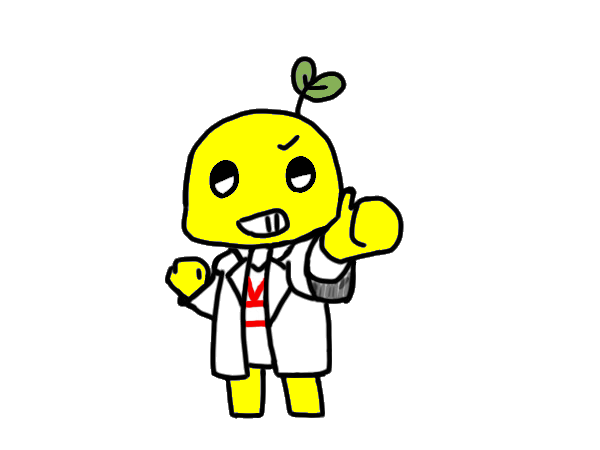
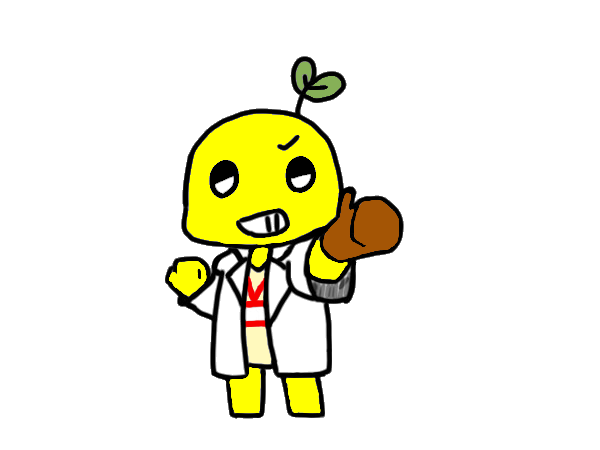
refactor : 画像処理スクリプトを新規作成し、設定ファイルからの色置換機能を実装

diff --git a/trans_color_multi_1.py b/trans_color_multi_1.py
@@ -2,6 +2,7 @@ from PIL import Image
 import os
 import tkinter as tk
 from PIL import ImageTk
+import yaml  # 追加
 
 # HEXカラーをRGBに変換
 def hex_to_rgb(hex_color):
@@ -33,18 +34,24 @@ def replace_color(input_path, output_folder, from_color, to_color, threshold=30)
     base_name = os.path.basename(input_path)
     img.save(os.path.join(output_folder, base_name))
 
-# 変換元・変換先カラーコード
-from_color = '#FFFF00'  # 置換元の色（例：黄色）
-to_color = "#AE00FF27"    # 置換先の色（例：緑）
+# 設定ファイル(config.yml)から値を読み込む
+with open('config.yml', encoding='utf-8') as f:
+    config = yaml.safe_load(f)
 
-# 画像枚数を変数で指定
-num_images = 11  # ひらめき1〜ひらめきN まで
+from_color = config['from_color']
+to_color = config['to_color']
+threshold = config.get('threshold', 30)
+
+# 以下はコード内で直接指定
+num_images = 11  # 画像枚数
+cols = 5         # 1行あたりの画像数
+thumb_size = (120, 120)  # サムネイルサイズ
 
 # 一括処理
 for i in range(1, num_images + 1):
     fname = os.path.join('hirameki_original', f'ひらめき{i}.png')
     output_folder = f"hirameki_{to_color.lstrip('#')}"
-    replace_color(fname, output_folder, from_color, to_color, threshold=30)
+    replace_color(fname, output_folder, from_color, to_color, threshold=threshold)
 
 # 変換後画像のパス一覧を取得
 output_folder = f"hirameki_{to_color.lstrip('#')}"
@@ -53,15 +60,18 @@ image_files = [os.path.join(output_folder, f"ひらめき{i}.png") for i in rang
 root = tk.Tk()
 root.title("変換後画像のプレビュー")
 
-# 画像を横に並べて表示
+# 画像をグリッド（例：1行5列）で表示
+# cols, thumb_sizeはYAMLから取得済み
 frames = []
 for idx, img_path in enumerate(image_files):
     img = Image.open(img_path)
-    img = img.resize((150, 150))  # サムネイルサイズに調整
+    img.thumbnail(thumb_size, Image.LANCZOS)
     tk_img = ImageTk.PhotoImage(img)
     frame = tk.Label(root, image=tk_img)
-    frame.image = tk_img  # 参照保持
-    frame.grid(row=0, column=idx)
+    frame.image = tk_img
+    row = idx // cols
+    col = idx % cols
+    frame.grid(row=row, column=col, padx=5, pady=5)
     frames.append(frame)
 
 root.mainloop()
